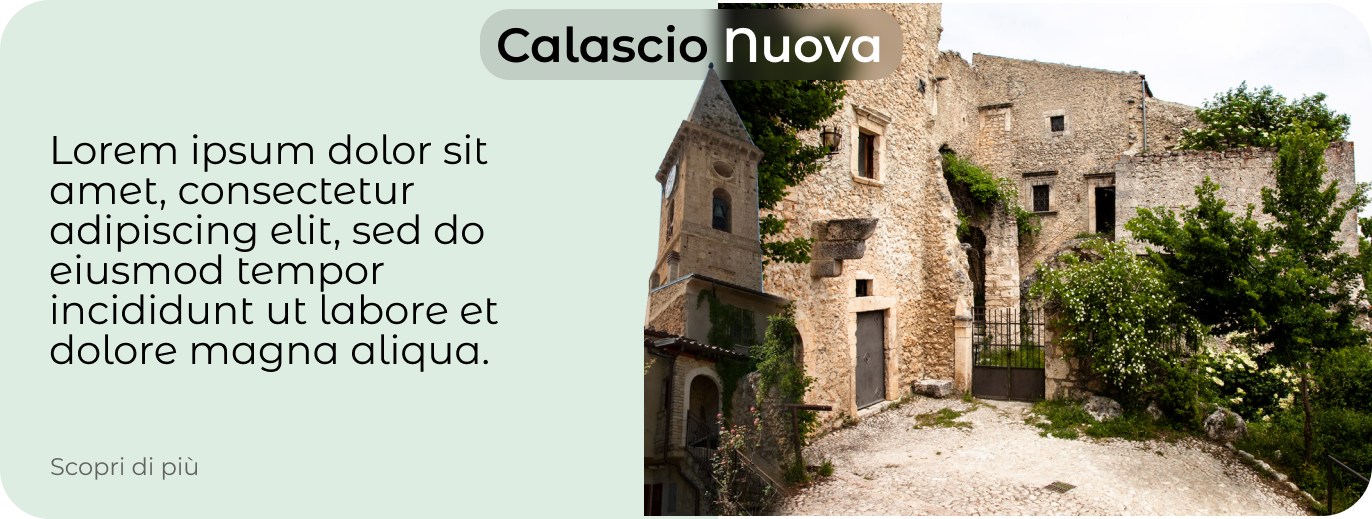
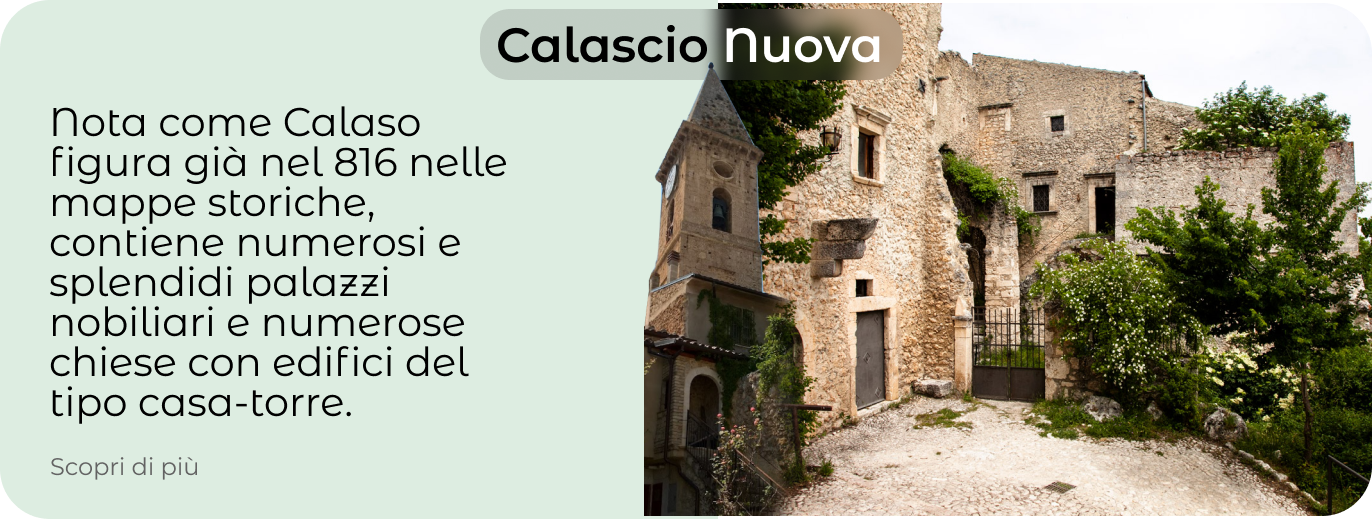
update text and image

Changed region(s): [[0.0306, 0.185, 0.3673, 0.8015]]

diff --git a/pages/infoCalascio/index.html b/pages/infoCalascio/index.html
@@ -82,23 +82,26 @@
                 <!-- Item 1 -->
                 <div class="hidden duration-700 ease-in-out" data-carousel-item>
                     <span
-                        class="absolute text-2xl z-10 font-semibold text-white -translate-x-1/2 -translate-y-1/2 bottom-2 left-1/2 sm:text-3xl ">Luogo Uno</span>
+                        class="absolute text-2xl z-10 font-semibold text-white -translate-x-1/2 -translate-y-1/2 bottom-2 left-1/2 sm:text-3xl ">Borgo Antico</span>
                     <img src="/assets/img/calascioAntica/carosello1.webp"
-                        class="absolute block w-full -translate-x-1/2 -translate-y-1/2 top-1/2 left-1/2 rounded-xl" alt="...">
+                        class="absolute block w-full -translate-x-1/2 -translate-y-1/2 top-1/2 left-1/2 rounded-xl"
+                        alt="...">
                 </div>
                 <!-- Item 2 -->
                 <div class="hidden duration-700 ease-in-out" data-carousel-item>
                     <span
-                        class="absolute text-2xl z-10 font-semibold text-white -translate-x-1/2 -translate-y-1/2 bottom-2 left-1/2 sm:text-3xl ">Luogo Due</span>
+                        class="absolute text-2xl z-10 font-semibold text-white -translate-x-1/2 -translate-y-1/2 bottom-2 left-1/2 sm:text-3xl ">Chiesa Santa Maria della Pietà</span>
                     <img src="/assets/img/calascioAntica/carosello2.jpg"
-                        class="absolute block w-full -translate-x-1/2 -translate-y-1/2 top-1/2 left-1/2 rounded-xl" alt="...">
+                        class="absolute block w-full -translate-x-1/2 -translate-y-1/2 top-1/2 left-1/2 rounded-xl"
+                        alt="...">
                 </div>
                 <!-- Item 3 -->
                 <div class="hidden duration-700 ease-in-out" data-carousel-item>
                     <span
-                        class="absolute text-2xl z-10 font-semibold text-white -translate-x-1/2 -translate-y-1/2 bottom-2 left-1/2 sm:text-3xl ">Luogo Tre</span>
+                        class="absolute text-2xl z-10 font-semibold text-white -translate-x-1/2 -translate-y-1/2 bottom-2 left-1/2 sm:text-3xl ">Le vecchie Mura</span>
                     <img src="/assets/img/calascioAntica/carosello3.jpg"
-                        class="absolute block w-full -translate-x-1/2 -translate-y-1/2 top-1/2 left-1/2 rounded-xl" alt="...">
+                        class="absolute block w-full -translate-x-1/2 -translate-y-1/2 top-1/2 left-1/2 rounded-xl"
+                        alt="...">
                 </div>
             </div>
             <!-- Slider indicators -->
@@ -151,46 +154,59 @@
 
 
         <!-- Lista dei Luoghi -->
-        <div class="w-4/5 md:w-2/4  mt-24">
-
-            <h1 class="mb-4 text-4xl font-extrabold leading-none tracking-tight text-gray-900 md:text-5xl lg:text-6xl ">
-                Luoghi <span class="text-violet-600 ">Unici</span> ti aspettano</h1>
-
+        <div class="w-4/5 md:w-4/5 mt-24">
+            <div class="w-2/4">
+                <h1
+                    class="mb-4 text-4xl font-extrabold leading-none tracking-tight text-gray-900 md:text-5xl lg:text-6xl ">
+                    Luoghi <span class="text-violet-600 ">Unici</span> ti aspettano</h1>
+            </div>
 
             <!-- Primo Luogo -->
             <div
-                class="flex flex-col items-center bg-white border rounded-lg shadow-md md:flex-row md:max-w-xl hover:bg-gray-100 ">
+                class="flex flex-col items-center bg-white border rounded-lg shadow-md md:flex-row md:max-w-full hover:bg-gray-100 ">
                 <img class="object-cover w-full rounded-t-lg h-96 md:h-auto md:w-48 md:rounded-none md:rounded-l-lg"
                     src="/assets/img/calascioAntica/box1.jpg" alt="">
                 <div class="flex flex-col justify-between p-4 leading-normal">
-                    <h5 class="mb-2 text-2xl font-bold tracking-tight text-gray-900 ">Luogo Uno</h5>
-                    <p class="mb-3 font-normal text-gray-700 ">Lorem ipsum dolor sit amet consectetur adipisicing elit.
-                        Quos est voluptas adipisci nisi voluptates aliquid consequatur earum quae, nam fuga iste
-                        corrupti, magnam ratione asperiores reiciendis, deleniti tempore similique pariatur?</p>
+                    <h5 class="mb-2 text-2xl font-bold tracking-tight text-gray-900 ">Borgo Antico</h5>
+                    <p class="mb-3 font-normal text-gray-700 ">
+                        è la parte originaria del borgo medievale di cui rimangono solo alcuni ruderi, quella più vicina
+                        al castello. Con la dominazione Aragonese una dogana importante per la pastorizia, che diede
+                        nuova linfa all'economia della zona. La pastorizia e le attività a essa legate diventarono
+                        quindi la principale fonte di reddito del borgo, del castello e dell'area circostante. Proprio
+                        per questo motivo si sviluppò ancora di più il piccolo borgo sottostante, anch'esso fortificato.
+                        Nel 1703 il paese venne danneggiato dal terremoto del 1703, in seguito al quale il borgo di
+                        Rocca Calascio, fortemente provato, venne quasi completamente abbandonato.</p>
                 </div>
             </div>
             <!-- Secondo Luogo -->
             <div
-                class=" mt-8 flex flex-col items-center bg-white border rounded-lg shadow-md md:flex-row md:max-w-xl hover:bg-gray-100 ">
+                class=" mt-8 flex flex-col items-center bg-white border rounded-lg shadow-md md:flex-row md:max-w-full hover:bg-gray-100 ">
                 <img class="object-cover w-full rounded-t-lg h-96 md:h-auto md:w-48 md:rounded-none md:rounded-l-lg"
-                    src="/assets/img/calascioAntica/box2.webp" alt="">
+                    src="/assets/img/calascioAntica/box2.jpg" alt="">
                 <div class="flex flex-col justify-between p-4 leading-normal">
-                    <h5 class="mb-2 text-2xl font-bold tracking-tight text-gray-900 ">Luogo Due</h5>
-                    <p class="mb-3 font-normal text-gray-700 ">Lorem ipsum dolor sit amet consectetur adipisicing elit.
-                        Quos est voluptas adipisci nisi voluptates aliquid consequatur earum quae, nam fuga iste
-                        corrupti, magnam ratione asperiores reiciendis, deleniti tempore similique pariatur?</p>
+                    <h5 class="mb-2 text-2xl font-bold tracking-tight text-gray-900 ">Chiesa Santa Maria della Pietà
+                    </h5>
+                    <p class="mb-3 font-normal text-gray-700 ">La chiesa di Santa Maria della Pietà, è una piccola
+                        chiesa situata nei pressi del castello di Rocca Calascio. La chiesa risale al XV secolo e
+                        presenta una semplice architettura in pietra con una facciata a capanna e una piccola cupola.
+                        All'interno, la chiesa ospita alcune pregevoli opere d'arte, tra cui affreschi e un altare in
+                        marmo. La Chiesa di Santa Maria della Pietà è un esempio di architettura religiosa della regione
+                        dell'Abruzzo ed è un importante luogo di culto per la comunità locale.</p>
                 </div>
             </div>
             <!-- Terzo Luogo -->
             <div
-                class=" mt-8 flex flex-col items-center bg-white border rounded-lg shadow-md md:flex-row md:max-w-xl hover:bg-gray-100 ">
+                class=" mt-8 flex flex-col items-center bg-white border rounded-lg shadow-md md:flex-row md:max-w-full hover:bg-gray-100 ">
                 <img class="object-cover w-full rounded-t-lg h-96 md:h-auto md:w-48 md:rounded-none md:rounded-l-lg"
                     src="/assets/img/calascioAntica/box3.jpg" alt="">
                 <div class="flex flex-col justify-between p-4 leading-normal">
-                    <h5 class="mb-2 text-2xl font-bold tracking-tight text-gray-900 ">Luogo Tre</h5>
-                    <p class="mb-3 font-normal text-gray-700 ">Lorem ipsum dolor sit amet consectetur adipisicing elit.
-                        Quos est voluptas adipisci nisi voluptates aliquid consequatur earum quae, nam fuga iste
-                        corrupti, magnam ratione asperiores reiciendis, deleniti tempore similique pariatur?</p>
+                    <h5 class="mb-2 text-2xl font-bold tracking-tight text-gray-900 "> Le vecchie Mura
+                    </h5>
+                    <p class="mb-3 font-normal text-gray-700 ">Dal 1480 con Antonio Piccolomini iniziò la ricostruzione
+                        con la nuova cinta muraria estesa fino all'attuale parcheggio, la Cinta Muraria assunse un forte
+                        interesse strategico e militare, facendo infatti parte di un imponente sistema difensivo di
+                        avvistamento, che si estendeva dagli Appennini al Mare Adriatico e che serviva a monitorare il
+                        territorio, da sempre vittima di invasioni.</p>
                 </div>
             </div>
 
@@ -202,7 +218,8 @@
         </div>
         <!-- Footer -->
         <div class="bottom-0 w-full">
-            <img src="/assets/img/calascioAntica/footerCastello.png" alt="footer con imagine del castello" class="w-full" >
+            <img src="/assets/img/calascioAntica/footerCastello.png" alt="footer con imagine del castello"
+                class="w-full">
         </div>
 
         <!-- Menu Dopo L apertura -->

diff --git a/index.html b/index.html
@@ -88,11 +88,8 @@
 
     <!-- Sezione Scarica L app -->
     <div class="sezioneScaricaApp grid justify-items-center">
-
         <img src="/assets/img/home/smartphoneApp.png " alt="Mockup di Uno smartphone Con al interno app di vivicalascio"
             class="w-11/12">
-
-
     </div>
 
 
@@ -103,7 +100,7 @@
         <div class="containerButton">
             <!-- Button -->
             <button class="buttonPrenotazione font-light text-sm md:text-xl cursor-pointer"
-                onclick="location.href='/pages/prenotazione/index.html'">Prenota Subito la tua Guida</button>
+                onclick="location.href='/pages/prenotazione/index.php'">Prenota Subito la tua Guida</button>
         </div>
     </div>
     <!-- Footer -->

diff --git a/pages/dashboard/admin.php b/pages/dashboard/admin.php
@@ -106,11 +106,10 @@
                         </a>
                         <div class="p-5">
                             <a href="#">
-                                <h5 class="mb-2 text-2xl font-bold tracking-tight text-gray-900 ">Percorso Uno</h5>
+                                <h5 class="mb-2 text-2xl font-bold tracking-tight text-gray-900 ">Percorso 1</h5>
                             </a>
-                            <p class="mb-3 font-normal text-gray-700 ">Lorem ipsum dolor sit amet consectetur adipisicing elit.
-                                Dolore repellat omnis eveniet nihil unde! Blanditiis, eveniet necessitatibus quod vitae
-                                molestiae ad et accusantium! Tempora nemo voluptate vitae non rem tenetur?</p>
+                            <p class="mb-3 font-normal text-gray-700 ">Ti porteremo alla scoperta della parte avventurosa di Rocca Calascio, attraverseremo il borgo diretti verso l’antica rocca passando per il borgo antico e per i suoi ruderi
+                                -palazzo Frasca -> casa Torre la Palmara -> borgo antico -> ponte levatoio -> castello -> chiesa di Santa Maria della pietà</p>
 
 
 
@@ -166,11 +165,10 @@
                         </a>
                         <div class="p-5">
                             <a href="#">
-                                <h5 class="mb-2 text-2xl font-bold tracking-tight text-gray-900 ">Percorso Due</h5>
+                                <h5 class="mb-2 text-2xl font-bold tracking-tight text-gray-900 ">Percorso 2</h5>
                             </a>
-                            <p class="mb-3 font-normal text-gray-700 ">Lorem ipsum dolor sit amet consectetur adipisicing elit.
-                                Dolore repellat omnis eveniet nihil unde! Blanditiis, eveniet necessitatibus quod vitae
-                                molestiae ad et accusantium! Tempora nemo voluptate vitae non rem tenetur?</p>
+                            <p class="mb-3 font-normal text-gray-700 ">Ti porteremo alla scoperta della parte culturale di Rocca Calascio, attraverseremo il borgo tra i palazzi e chiese storiche verso il castello di rocca calascio
+                                -palazzo Frasca -> casa Torre la Palmara -> palazzo Taranta -> chiesa San Nicola -> chiesa Sant'antonio abate -> castello</p>
 
                             <div class="flex items-center mb-5">
                                 <p class="bg-blue-100 text-blue-800 text-sm font-semibold inline-flex items-center p-1.5 rounded ">
@@ -222,11 +220,10 @@
                         </a>
                         <div class="p-5">
                             <a href="#">
-                                <h5 class="mb-2 text-2xl font-bold tracking-tight text-gray-900 ">Percorso Terzo</h5>
+                                <h5 class="mb-2 text-2xl font-bold tracking-tight text-gray-900 ">Percorso 3</h5>
                             </a>
-                            <p class="mb-3 font-normal text-gray-700 ">Lorem ipsum dolor sit amet consectetur adipisicing elit.
-                                Dolore repellat omnis eveniet nihil unde! Blanditiis, eveniet necessitatibus quod vitae
-                                molestiae ad et accusantium! Tempora nemo voluptate vitae non rem tenetur?</p>
+                            <p class="mb-3 font-normal text-gray-700 ">Ti porteremo alla scoperta della parte culturale di Rocca Calascio, un percorso per bambini, di breve durata tra palazzi storici fino al castello
+                                -palazzo Frasca -> casa Torre la Palmara -> palazzo Taranta -> chiesa Santa Maria della pietà -> castello</p>
 
 
 
@@ -281,68 +278,81 @@
                 <div class="grid justify-items-center">
 
                     <!-- Lista dei Luoghi -->
-                    <div class="w-4/5 md:w-2/4  mt-24">
-                        <h1 class="mb-4 text-4xl font-extrabold leading-none tracking-tight text-gray-900 md:text-5xl lg:text-6xl ">
-                            Luoghi <span class="text-violet-600 ">Unici</span> ti aspettano</h1>
+                    <div class="w-4/5 md:w-4/5 mt-24">
+                        <div class="w-2/4">
+                            <h1 class="mb-4 text-4xl font-extrabold leading-none tracking-tight text-gray-900 md:text-5xl lg:text-6xl ">
+                                Luoghi <span class="text-violet-600 ">Unici</span> ti aspettano</h1>
+                        </div>
 
                         <!-- Primo Luogo -->
-                        <div class="flex flex-col items-center bg-white border rounded-lg shadow-md md:flex-row md:max-w-xl hover:bg-gray-100 ">
+                        <div class="flex flex-col items-center bg-white border rounded-lg shadow-md md:flex-row md:max-w-full hover:bg-gray-100 ">
                             <img class="object-cover w-full rounded-t-lg h-96 md:h-auto md:w-48 md:rounded-none md:rounded-l-lg" src="/assets/img/calascioAntica/box1.jpg" alt="">
                             <div class="flex flex-col justify-between p-4 leading-normal">
-                                <h5 class="mb-2 text-2xl font-bold tracking-tight text-gray-900 ">Luogo Uno</h5>
-                                <p class="mb-3 font-normal text-gray-700 ">Lorem ipsum dolor sit amet consectetur adipisicing elit.
-                                    Quos est voluptas adipisci nisi voluptates aliquid consequatur earum quae, nam fuga iste
-                                    corrupti, magnam ratione asperiores reiciendis, deleniti tempore similique pariatur?</p>
+                                <h5 class="mb-2 text-2xl font-bold tracking-tight text-gray-900 ">Borgo Antico</h5>
+                                <p class="mb-3 font-normal text-gray-700 ">
+                                    è la parte originaria del borgo medievale di cui rimangono solo alcuni ruderi, quella più vicina
+                                    al castello. Con la dominazione Aragonese una dogana importante per la pastorizia, che diede
+                                    nuova linfa all'economia della zona. La pastorizia e le attività a essa legate diventarono
+                                    quindi la principale fonte di reddito del borgo, del castello e dell'area circostante. Proprio
+                                    per questo motivo si sviluppò ancora di più il piccolo borgo sottostante, anch'esso fortificato.
+                                    Nel 1703 il paese venne danneggiato dal terremoto del 1703, in seguito al quale il borgo di
+                                    Rocca Calascio, fortemente provato, venne quasi completamente abbandonato.</p>
                             </div>
+
+
                             <div class="w-full flex justify-center mt-4">
                                 <button type="button" id="modifiche" class="text-white bg-red-500 border border-red-300 focus:outline-none hover:bg-red-100 focus:ring-4 focus:ring-red-200 hover:text-black font-medium rounded-full text-sm px-5 py-2.5 mr-2 mb-2  justify-center">Modifica</button>
                             </div>
                         </div>
+
+
                         <!-- Secondo Luogo -->
-                        <div class=" mt-8 flex flex-col items-center bg-white border rounded-lg shadow-md md:flex-row md:max-w-xl hover:bg-gray-100 ">
-                            <img class="object-cover w-full rounded-t-lg h-96 md:h-auto md:w-48 md:rounded-none md:rounded-l-lg" src="/assets/img/calascioAntica/box2.webp" alt="">
+                        <div class=" mt-8 flex flex-col items-center bg-white border rounded-lg shadow-md md:flex-row md:max-w-full hover:bg-gray-100 ">
+                            <img class="object-cover w-full rounded-t-lg h-96 md:h-auto md:w-48 md:rounded-none md:rounded-l-lg" src="/assets/img/calascioAntica/box2.jpg" alt="">
                             <div class="flex flex-col justify-between p-4 leading-normal">
-                                <h5 class="mb-2 text-2xl font-bold tracking-tight text-gray-900 ">Luogo Due</h5>
-                                <p class="mb-3 font-normal text-gray-700 ">Lorem ipsum dolor sit amet consectetur adipisicing elit.
-                                    Quos est voluptas adipisci nisi voluptates aliquid consequatur earum quae, nam fuga iste
-                                    corrupti, magnam ratione asperiores reiciendis, deleniti tempore similique pariatur?</p>
+                                <h5 class="mb-2 text-2xl font-bold tracking-tight text-gray-900 ">Chiesa Santa Maria della Pietà
+                                </h5>
+                                <p class="mb-3 font-normal text-gray-700 ">La chiesa di Santa Maria della Pietà, è una piccola
+                                    chiesa situata nei pressi del castello di Rocca Calascio. La chiesa risale al XV secolo e
+                                    presenta una semplice architettura in pietra con una facciata a capanna e una piccola cupola.
+                                    All'interno, la chiesa ospita alcune pregevoli opere d'arte, tra cui affreschi e un altare in
+                                    marmo. La Chiesa di Santa Maria della Pietà è un esempio di architettura religiosa della regione
+                                    dell'Abruzzo ed è un importante luogo di culto per la comunità locale.</p>
                             </div>
+
+
                             <div class="w-full flex justify-center mt-4">
                                 <button type="button" id="modifiche" class="text-white bg-red-500 border border-red-300 focus:outline-none hover:bg-red-100 focus:ring-4 focus:ring-red-200 hover:text-black font-medium rounded-full text-sm px-5 py-2.5 mr-2 mb-2  justify-center">Modifica</button>
                             </div>
                         </div>
+
+
                         <!-- Terzo Luogo -->
-                        <div class=" mt-8 flex flex-col items-center bg-white border rounded-lg shadow-md md:flex-row md:max-w-xl hover:bg-gray-100 ">
+                        <div class=" mt-8 flex flex-col items-center bg-white border rounded-lg shadow-md md:flex-row md:max-w-full hover:bg-gray-100 ">
                             <img class="object-cover w-full rounded-t-lg h-96 md:h-auto md:w-48 md:rounded-none md:rounded-l-lg" src="/assets/img/calascioAntica/box3.jpg" alt="">
                             <div class="flex flex-col justify-between p-4 leading-normal">
-                                <h5 class="mb-2 text-2xl font-bold tracking-tight text-gray-900 ">Luogo Tre</h5>
-                                <p class="mb-3 font-normal text-gray-700 ">Lorem ipsum dolor sit amet consectetur adipisicing elit.
-                                    Quos est voluptas adipisci nisi voluptates aliquid consequatur earum quae, nam fuga iste
-                                    corrupti, magnam ratione asperiores reiciendis, deleniti tempore similique pariatur?</p>
+                                <h5 class="mb-2 text-2xl font-bold tracking-tight text-gray-900 "> Le vecchie Mura
+                                </h5>
+                                <p class="mb-3 font-normal text-gray-700 ">Dal 1480 con Antonio Piccolomini iniziò la ricostruzione
+                                    con la nuova cinta muraria estesa fino all'attuale parcheggio, la Cinta Muraria assunse un forte
+                                    interesse strategico e militare, facendo infatti parte di un imponente sistema difensivo di
+                                    avvistamento, che si estendeva dagli Appennini al Mare Adriatico e che serviva a monitorare il
+                                    territorio, da sempre vittima di invasioni.</p>
                             </div>
+
+
                             <div class="w-full flex justify-center mt-4">
                                 <button type="button" id="modifiche" class="text-white bg-red-500 border border-red-300 focus:outline-none hover:bg-red-100 focus:ring-4 focus:ring-red-200 hover:text-black font-medium rounded-full text-sm px-5 py-2.5 mr-2 mb-2  justify-center">Modifica</button>
                             </div>
                         </div>
-
-
-                        <!-- Spazio Bianco -->
-                        <div class="pt-48"></div>
-
-
                     </div>
                 </div>
-
-
-
-
             </div>
-
-        </div>
+   
         <!-- Spazio Bianco -->
         <div class="pt-48"></div>
-
     </div>
+
 
 
     <script>

diff --git a/pages/prenotazione/index.php b/pages/prenotazione/index.php
@@ -107,11 +107,11 @@
                 </a>
                 <div class="p-5">
                     <a href="#">
-                        <h5 class="mb-2 text-2xl font-bold tracking-tight text-gray-900 ">Percorso Uno</h5>
+                        <h5 class="mb-2 text-2xl font-bold tracking-tight text-gray-900 ">Percorso 1</h5>
                     </a>
-                    <p class="mb-3 font-normal text-gray-700 ">Lorem ipsum dolor sit amet consectetur adipisicing elit.
-                        Dolore repellat omnis eveniet nihil unde! Blanditiis, eveniet necessitatibus quod vitae
-                        molestiae ad et accusantium! Tempora nemo voluptate vitae non rem tenetur?</p>
+                    <p class="mb-3 font-normal text-gray-700 ">Ti porteremo alla scoperta della parte avventurosa di Rocca Calascio, attraverseremo il borgo diretti verso l’antica rocca passando per il borgo antico e per i suoi ruderi
+                        -palazzo Frasca -> casa Torre la Palmara -> borgo antico -> ponte levatoio -> castello -> chiesa di Santa Maria della pietà
+                    </p>
 
 
 
@@ -170,11 +170,11 @@
                 </a>
                 <div class="p-5">
                     <a href="#">
-                        <h5 class="mb-2 text-2xl font-bold tracking-tight text-gray-900 ">Percorso Due</h5>
+                        <h5 class="mb-2 text-2xl font-bold tracking-tight text-gray-900 ">Percorso 2</h5>
                     </a>
-                    <p class="mb-3 font-normal text-gray-700 ">Lorem ipsum dolor sit amet consectetur adipisicing elit.
-                        Dolore repellat omnis eveniet nihil unde! Blanditiis, eveniet necessitatibus quod vitae
-                        molestiae ad et accusantium! Tempora nemo voluptate vitae non rem tenetur?</p>
+                    <p class="mb-3 font-normal text-gray-700 ">Ti porteremo alla scoperta della parte culturale di Rocca Calascio, attraverseremo il borgo tra i palazzi e chiese storiche verso il castello di rocca calascio
+                        -palazzo Frasca -> casa Torre la Palmara -> palazzo Taranta -> chiesa San Nicola -> chiesa Sant'antonio abate -> castello
+                    </p>
 
 
 
@@ -230,11 +230,11 @@
                 </a>
                 <div class="p-5">
                     <a href="#">
-                        <h5 class="mb-2 text-2xl font-bold tracking-tight text-gray-900 ">Percorso Terzo</h5>
+                        <h5 class="mb-2 text-2xl font-bold tracking-tight text-gray-900 ">Percorso 3</h5>
                     </a>
-                    <p class="mb-3 font-normal text-gray-700 ">Lorem ipsum dolor sit amet consectetur adipisicing elit.
-                        Dolore repellat omnis eveniet nihil unde! Blanditiis, eveniet necessitatibus quod vitae
-                        molestiae ad et accusantium! Tempora nemo voluptate vitae non rem tenetur?</p>
+                    <p class="mb-3 font-normal text-gray-700 ">Ti porteremo alla scoperta della parte culturale di Rocca Calascio, un percorso per bambini, di breve durata tra palazzi storici fino al castello
+                        -palazzo Frasca -> casa Torre la Palmara -> palazzo Taranta -> chiesa Santa Maria della pietà -> castello
+                    </p>
 
 
 
